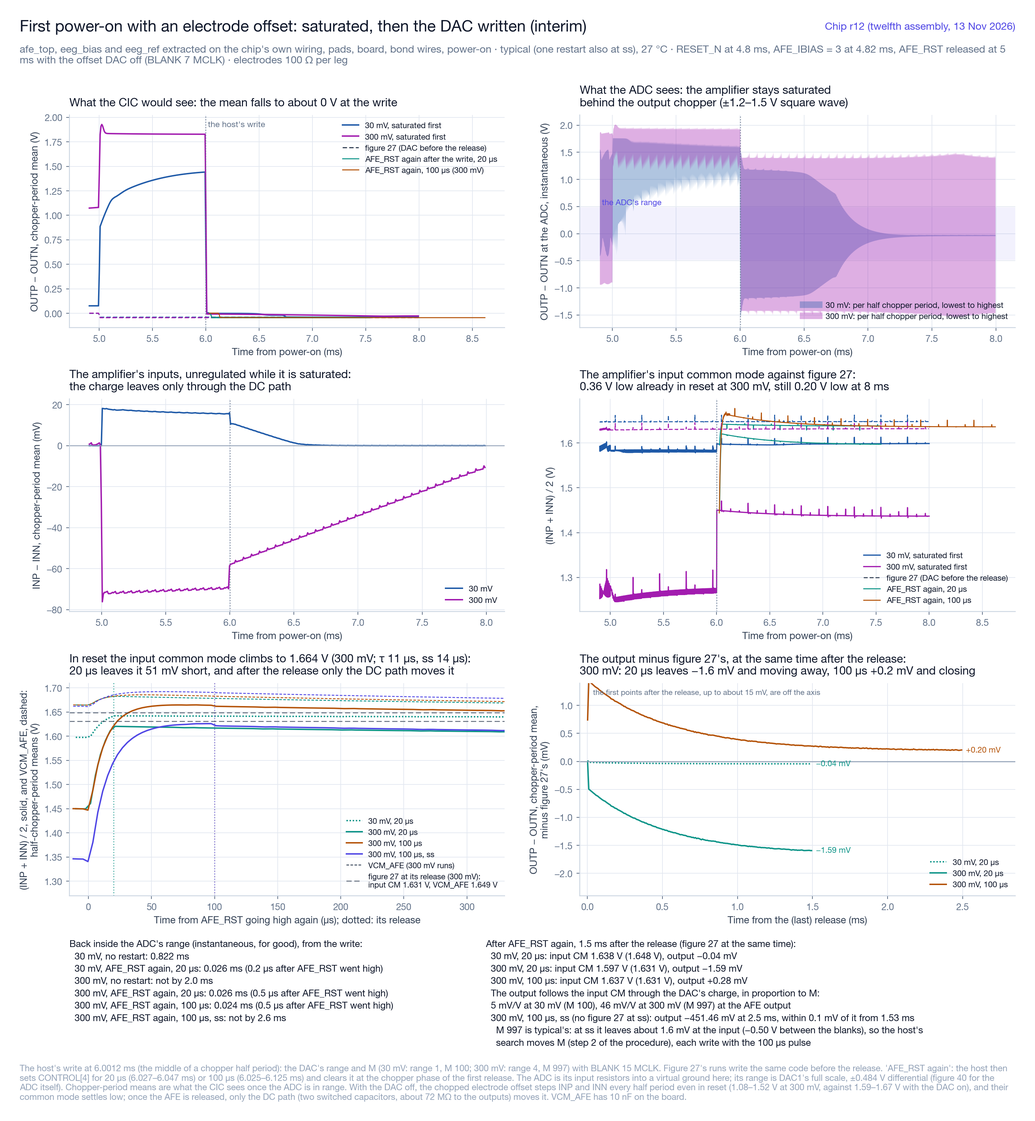
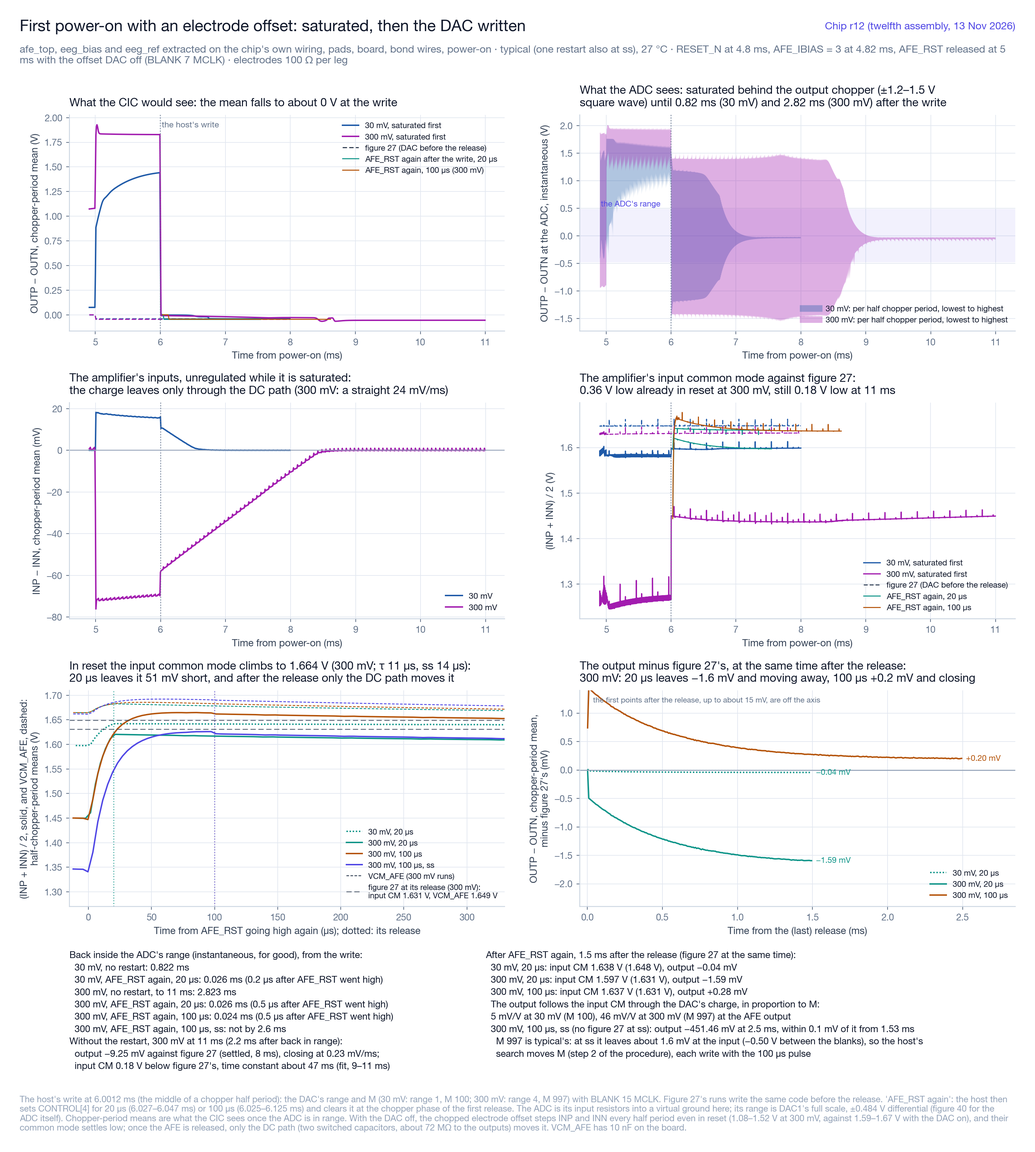
GF180 D7（11/17）：図 39（電極オフセットで飽和した最初の電源投入）を仕上げた。300 mV をパルスなしで 11 ms まで回したラン（11/17 の 2 時 30 分に終わった。8 ms までは 8 ms のランと 0.65 µV 以内で同じ）では、書いてから 2.82 ms（電源投入から 8.82 ms）で ADC の範囲に戻る。飽和した出力が DC 経路に一定の電流を流すので、INP − INN は 24 mV/ms の直線で戻る。範囲に入ったあとも入力のコモンモードは図 27 より 0.18 V 低いまま（9〜11 ms の当てはめで時定数約 47 ms）で、出力は 1

diff --git a/first_tapeout_eeg/gf180/tapeout/viz/saturation_fig.py b/first_tapeout_eeg/gf180/tapeout/viz/saturation_fig.py
@@ -3,7 +3,8 @@
 (gf180_electrode_dc_20261022.md, "使い方"): AFE_RST released at 5 ms with the offset DAC off, so the AFE saturates; the
 host writes the DAC's range and M with BLANK 15 at 6.0 ms (afe_saturation.py). Against figure 27's runs (the DAC
 written before the release), and with the host re-asserting AFE_RST for 20 us or 100 us after the write
-(afe_saturation.py --rst-pulse), where those runs exist; the 100 us restart also at ss.
+(afe_saturation.py --rst-pulse), where those runs exist; the 100 us restart also at ss; 300 mV without the restart
+to 11 ms (afe_saturation.py --tstop 11e-3 --tag _sat6ms_to11ms_chip_r12), where the AFE comes back by itself.
 
 Usage: gf180/tools/venv310/bin/python gf180/tapeout/viz/saturation_fig.py
 """
@@ -125,7 +126,7 @@ def main():
     def R(vin, kind, corner="typical"):
         return runs.get((vin, kind, corner), (None, None))
 
-    fig = V.figure(12.8, 14.0, "First power-on with an electrode offset: saturated, then the DAC written" +
+    fig = V.figure(12.8, 14.4, "First power-on with an electrode offset: saturated, then the DAC written" +
                    (" (interim)" if interim else ""),
                    "afe_top, eeg_bias and eeg_ref extracted on the chip's own wiring, pads, board, bond wires, power-on · "
                    "typical (one restart also at ss), 27 °C · RESET_N at 4.8 ms, AFE_IBIAS = 3 at 4.82 ms, AFE_RST released "
@@ -140,7 +141,7 @@ def main():
                         "(1.08–1.52 V at 300 mV, against 1.59–1.67 V with the DAC on), and their common mode settles low; "
                         "once the AFE is released, only the DC path (two switched capacitors, about 72 MΩ to the outputs) "
                         "moves it. VCM_AFE has 10 nF on the board.")
-    gs = fig.add_gridspec(4, 2, height_ratios=[1, 1, 1, 0.5])
+    gs = fig.add_gridspec(4, 2, height_ratios=[1, 1, 1, 0.6])
 
     # (a) chopper-period means
     ax = fig.add_subplot(gs[0, 0])
@@ -170,33 +171,41 @@ def main():
     ax = fig.add_subplot(gs[0, 1])
     ax.axhspan(-ADC_FS, ADC_FS, color=ACCENT, alpha=0.07, lw=0)
     ax.text(4.92, ADC_FS * 1.05, "the ADC's range", fontsize=7.4, color=ACCENT, va="bottom")
+    back = []
     for vin, mag, col in CASES:
         v, m = R(vin, "long") if (vin, "long", "typical") in have else R(vin, "sat")
         tc, lo, hi = envelope(v, 4.9e-3, v["t"][-1])
         ax.fill_between(tc * 1e3, lo, hi, color=col, alpha=0.35, lw=0)
         ax.plot([], [], color=col, lw=6, alpha=0.35, label=f"{vin} mV: per half chopper period, lowest to highest")
+        tb = back_in_range(v, m["t_dac"])
+        back.append(f"{tb * 1e3:.2f} ms ({vin} mV)" if tb is not None else
+                    f"past {(v['t'][-1] - m['t_dac']) * 1e3:.1f} ms ({vin} mV)")
     ax.axvline(6.0012, color=MUTED, lw=0.8, ls=(0, (1, 2)))
     ax.set_xlabel("Time from power-on (ms)")
     ax.set_ylabel("OUTP − OUTN at the ADC, instantaneous (V)")
     ax.legend(loc="lower right", fontsize=7.4)
-    ax.set_title("What the ADC sees: the amplifier stays saturated\nbehind the output chopper (±1.2–1.5 V square wave)",
-                 loc="left")
+    ax.set_title("What the ADC sees: saturated behind the output chopper (±1.2–1.5 V\nsquare wave) until "
+                 + " and ".join(back) + " after the write", loc="left")
 
     # (c) the amplifier's input nodes
     ax = fig.add_subplot(gs[1, 0])
+    ramp = None
     for vin, mag, col in CASES:
         v, m = R(vin, "long") if (vin, "long", "typical") in have else R(vin, "sat")
         d = v["inp"] - v["inn"]
         tc, mm = chop_means(dict(t=v["t"], qo=np.concatenate([[0.0], np.cumsum(0.5 * (d[1:] + d[:-1]) * np.diff(v["t"]))])),
                             4.9e-3, v["t"][-1])
         ax.plot(tc * 1e3, mm * 1e3, color=col, lw=1.3, label=f"{vin} mV")
+        k = (tc > m["t_dac"] + 0.2e-3) & (np.abs(mm) > 5e-3)      # while the saturated output drives the DC path
+        if vin == 300 and k.sum() > 8:
+            ramp = np.polyfit(tc[k], mm[k], 1)[0]
     ax.axvline(6.0012, color=MUTED, lw=0.8, ls=(0, (1, 2)))
     ax.axhline(0, color=LIGHT, lw=0.8)
     ax.set_xlabel("Time from power-on (ms)")
     ax.set_ylabel("INP − INN, chopper-period mean (mV)")
     ax.legend(loc="lower right", fontsize=7.6)
-    ax.set_title("The amplifier's inputs, unregulated while it is saturated:\nthe charge leaves only through the DC path",
-                 loc="left")
+    ax.set_title("The amplifier's inputs, unregulated while it is saturated:\nthe charge leaves only through the DC path" +
+                 (f" (300 mV: a straight {ramp:.0f} mV/ms)" if ramp else ""), loc="left")
 
     # (d) the input common mode from power-on
     ax = fig.add_subplot(gs[1, 1])
@@ -213,8 +222,8 @@ def main():
             ax.plot(vr["t"][ar][::20] * 1e3, cmr[ar][::20], color=col, lw=0.9, ls=(0, (4, 2)))
             ref = cmr[vr["t"] > vr["t"][-1] - 0.1e-3].mean()
             sat = cm[(v["t"] > 5.5e-3) & (v["t"] < m["t_dac"])].mean()
-            end = cm[(v["t"] > 7.9e-3) & (v["t"] < 8.0e-3)].mean()
-            drop[vin] = (ref - sat, ref - end)
+            end = cm[v["t"] > v["t"][-1] - 0.1e-3].mean()                # the run's last 0.1 ms
+            drop[vin] = (ref - sat, ref - end, v["t"][-1])
         for kind in RCOL:
             rv, rm = R(vin, kind)
             if rv is not None:
@@ -230,7 +239,8 @@ def main():
     ax.legend(loc="lower right", fontsize=7.4)
     d3 = drop.get(300)
     ax.set_title("The amplifier's input common mode against figure 27:\n" +
-                 (f"{d3[0]:.2f} V low already in reset at 300 mV, still {d3[1]:.2f} V low at 8 ms" if d3 else ""), loc="left")
+                 (f"{d3[0]:.2f} V low already in reset at 300 mV, still {d3[1]:.2f} V low at {d3[2] * 1e3:.0f} ms"
+                  if d3 else ""), loc="left")
 
     # (e) the pulse itself: the input common mode climbs to its reset level
     ax = fig.add_subplot(gs[2, 0])
@@ -327,6 +337,25 @@ def main():
                 extra = f" ({(m['t_dac'] + tb - m['afe_rst_again'][0]) * 1e6:.1f} µs after AFE_RST went high)"
             left.append(f"  {vin} mV, {lab}: " + (f"{tb * 1e3:.3f} ms{extra}" if tb is not None else
                                                     f"not by {(v['t'][-1] - m['t_dac']) * 1e3:.1f} ms"))
+    vl, ml = R(300, "long")
+    vr3, mr3 = R(300, "ref")
+    tbl = back_in_range(vl, ml["t_dac"]) if vl is not None else None
+    if tbl is not None and vr3 is not None:                    # where the run without the restart ends up
+        te = vl["t"][-1]
+        tcl, mml = chop_means(vl, ml["t_reset"] + TCH / 4, te)
+        tcr, mmr = chop_means(vr3, mr3["t_reset"] + TCH / 4, vr3["t"][-1])
+        o_end, o_1 = mml[-8:].mean(), mml[(tcl > te - 1e-3 - 8 * TCH) & (tcl <= te - 1e-3)].mean()
+        cml = 0.5 * (vl["inp"] + vl["inn"])
+        x = te - 2e-3 + 0.125e-3 * np.arange(17)
+        h = np.array([wmean(vl["t"], cml, a - 8 * TCH, a) for a in x])
+        cref = wmean(vr3["t"], 0.5 * (vr3["inp"] + vr3["inn"]), vr3["t"][-1] - 8 * TCH, vr3["t"][-1])
+        tau = -1 / np.polyfit(x, np.log(cref - h), 1)[0]
+        left.append(f"Without the restart, 300 mV at {te * 1e3:.0f} ms ({(te - ml['t_dac'] - tbl) * 1e3:.1f} ms after "
+                    "back in range):")
+        left.append(f"  output {(o_end - mmr[-8:].mean()) * 1e3:+.2f} mV against figure 27 (settled, "
+                    f"{vr3['t'][-1] * 1e3:.0f} ms), closing at {(o_end - o_1) * 1e3:.2f} mV/ms;".replace("-", "−"))
+        left.append(f"  input CM {cref - h[-1]:.2f} V below figure 27's, time constant about {tau * 1e3:.0f} ms "
+                    f"(fit, {(te - 2e-3) * 1e3:.0f}–{te * 1e3:.0f} ms)")
     right = ["After AFE_RST again, 1.5 ms after the release (figure 27 at the same time):"]
     gain = {}
     for vin, kind, c, col, ls, lab in RESTARTS:

diff --git a/first_tapeout_eeg/documentation/gf180_tapeout_tracker.md b/first_tapeout_eeg/documentation/gf180_tapeout_tracker.md
@@ -103,7 +103,7 @@
 | D4 | L3：AFE＋ADC＋DAC セル＋量子化器の短窓トランジスタ E2E。10/22：`gf180/tapeout/sim/e2e/e2e_deck.py`（AFE とそのクロックドライバ、ADC ブロック、バイアス生成、基準電圧のフィルタ。typical）で 70 µs を回した。16 kHz・フルスケールの正弦波で、AFE の出力（チョッパ周期の平均）の利得 268.9（周期平均の sinc を除くと約 276）、ADC まで含めた全体 282、量子化の残差 0.031（DAC の段の単位、ADC 単体と同じ）、AVDD 27.2 mA。窓が 16 kHz の 0.8 周期しかないので、利得の精度は数 %。AFE_RST を解除した瞬間の入力が Cin に残る起動時の現象を見つけた（AFE の文書）。1 本 45〜75 分。10/24：寄生込みの E2E（`gf180/tapeout/pex/pex_e2e.py`、`gf180_pex_20261023.md` の「寄生込みの E2E」、図 `documentation/figures/gf180/r9_20261029/e2e_pex/gf180_e2e_pex_r9_*.png`）。AFE と ADC を最終のチップ（B7、B4 の直し込み）の抽出に差し替え、Ch-A を横切る OUTP／OUTN のチップの配線（74／70 fF、片側 35.6 Ω）も足して、回路図と比べた。AFE の利得 291.4（回路図 291.5、配線込み 290.9）、全体 301.2〜301.9、AVDD 27.2 mA、O2 −33〜+34 mV で同等。量子化の残差は寄生込みで約 2 倍（0.017 → 0.032、帯域の外）。リセットの解除のあとの相 A／B の不釣り合い（寄生込みで 19 mV、時定数 143 µs で抜ける）で、ADC の入力の瞬時値は最大 297 mV（フルスケール 300 mV の内側）。仕様を外れるものはない。10/25：4 回目のチップ（電極の DC 電流の直しのあと）の抽出で回し直した。AFE の利得 291.3（配線込み 290.8）、全体 301.5〜302.5、量子化の残差 0.028／0.021。相 A／B の不釣り合いは 19 → −2.6 mV（その大きさは入力チョッパのクロックの結合の WP／WN の差で決まっていた）、ADC の入力の瞬時値は ±287 mV で回路図と同じ。10/26：5 回目のチップ（WN の配線抵抗の直しのあと）でも回し直し、ほぼ同じ（相 A／B −2.7 mV、量子化の残差 0.026／0.021、ADC の入力 ±287 mV）。10/26 夜：6 回目のチップ（Magic DRC の直しのあと）でも回し直し、ほぼ同じ（AFE の利得 291.3、相 A／B −2.7 mV、量子化の残差 0.025／0.021、ADC の入力 ±287 mV）。10/30：9 回目のチップ（ADC は C1・C2 を 1.25 倍にした 7 回目の抽出、AFE は 6 回目と同じ）で回し直した（`runs/e2e_r7/`。d4 と sch も今の回路図で）：AFE の利得 291.3（配線込み 290.8）、全体 299.8〜300.4、量子化の残差 0.016／0.017（回路図 0.017。寄生込みで増えなくなった）、相 A／B −2.7 mV、ADC の入力 ±287 mV。11/9：10 回目のチップ（量子化器のラッチのグラウンドを AVSS につないだ ADC の抽出）で 4 通りとも回し直し、すべて同じ値（`runs/e2e_r10/`。抽出は基板を AVSS とするので、前からラッチは AVSS につながった形で計算されていた）。11/13：11 回目と 12 回目の抽出でも回した（`runs/e2e_r11/`、`runs/e2e_r12/`）。寄生込みは AFE の利得 291.4、全体 299.8／300.4、残差 0.019／0.019。チップの配線込み（pexchip。OUTP／OUTN が約 20 Ω 長くなった）は 290.6、299.9／299.5、0.018／0.014 で、r10 と同じ大きさ。残り：コーナー | 11/17 | ▶（typical ✅、寄生込み ✅） |
 | D5 | 今回 rev の構成決定レビュー。判断が要るもの：ADC のポリ抵抗のフリッカ（11/12、D7、図 33。PDK の大きさを今の電流でとると、フルスケールで 16.26 bit）。11/12 に直す案を調べた（`gf180_realistic_eval_20261028.md` の「RIN と DAC1 を ppolyf_u に替える案」、図 `plan_20261112`、設計はまだ変えていない）：1 単位（300 kΩ）を幅 0.8 µm の ppolyf_u 2 本の直列にすると、雑音 0.069 倍で、フルスケールでも 16.57 bit。抵抗の間を 0.4 µm にし、OTA1 と第 2 段を東へ 28.9 µm ずらせば ADC に収まる（外形は同じ）。角は今と同じ ±20 %、温度による変化は約 1/10。DAC1 は偶成分が要求の 1/90 以下のまま、出力の電位差への感度が 1.59 倍（ループの HD3 約 −129 dBc）、BRK の時間は同じ。R21 も替えるとよい。替えるなら ADC のレイアウト、DRC／LVS、precheck、PEX、DAC1 とループの確認、通し（約 54 時間）をやり直す（1 週間ほど）。替えないなら、フルスケールの 16.26 bit を予測として明記し、チップで測る。勧めは替えるほう（ENOB はフルスケールに近い正弦波で測るため）。**11/12 にユーザーが替えると決めた**（RIN と DAC1、勧めのとおり R21 も ppolyf_u に。11 回目のチップで作業する。走っている 10 回目の通しは r10 の抽出だけを読むので、止めずに進める）。11/12〜13：11 回目のチップで替えた（E4）。作ったままの抵抗でフリッカを計算し直し、フルスケールで 0.29 nVrms、16.57 bit（入力が小さいときと同じ。`runs/adc_flicker_r11`）。11/13：外から指摘のあった、敏感な網の下を通るクロックとデータの線を、ユーザーの判断で 12 回目で直した（E3、E4）。AFE の通路の覆いで電極の DC 電流が ±1.56 → ±1.71 nA になるが、ユーザーの判断で覆いは残した。**発注の候補は r12**（E8） | 11/18 | ▶ |
 | D6 | L4：重要ブロックの PEX 確認（チョッパの寄生結合、AFE 入力節点、積分器・DAC）。10/23：magic で寄生容量を抽出し（ネット名は KLayout の LVS の結果で回路図に対応づけ、MIM の基板容量は下の板へ補正）、入力の信号経路の配線抵抗は KLayout の R 抽出で求めた。AFE、ADC のループ、DAC1、OTA1 のチョッパを、回路図・抽出した素子だけ・寄生込みの 3 つで比べた（`gf180/tapeout/pex/`、`documentation/gf180_pex_20261023.md`）。寄生容量だけなら差は小さい（AFE の雑音 4.64 → 4.70 nVrms、利得 −0.2 %、HD3 −116 dBc、ADC のループの利得・CM・電流、積分器の整定は同等）。**仕様を外れるもの 4 つ**：① 入力の信号経路の配線抵抗が片側 76／119 Ω（コアの入力対のゲート配線 72／115、Cin の下の板の網 4.0、チョッパの EP／EN 0.35）で、AFE の雑音 19.1 nVrms、約 14.8 bit。② DAC1 の偶成分 0.47〜0.69 fC（要求 0.008 fC）で SNDR 約 70 dB。③ DC 経路のスイッチの CIB2 の結合の非対称で AFE の出力に 39 mV p-p のリップル。④ 量子化器の入力の結合の非対称で判定が平均 +2.4 LSB ずれる。原因と直し方（目標値つき）は文書の「直し方」。直したあと同じ流れで確かめる。10/24：4 件をレイアウトで直し（E3、E4）、チップを組み直して抽出と比較を回し直した（文書の「直したあとの確認」）。4 件とも仕様の内側に戻った：配線抵抗は片側 0.634／0.676 Ω（チップで測定。Cin の下の Metal3 の面は Tesselation）、DAC1 の偶成分 −0.0014 fC（123 dB）、リップル 3.62 mV p-p、量子化器の入力の結合はそろい、ループの残差 0.027。AFE の雑音は寄生込みで 4.81 nVrms、配線抵抗込みで 5.05 nVrms、総残差 6.05〜6.07 nVrms（16.45〜16.46 bit）で、16.50 bit に 0.04〜0.05 bit 足りない（片側 0.35 Ω まで下げるには AFE の配置の変更が要り、今回 rev はこの形）。抽出の補正を直した：magic が MIM の上の板に付ける、下の導体（Cin の下の Metal3 の面など）への容量を下の板へ移す（`pex.py` の `mim_shield`。AFE で WP–INP の見かけの 21.3 pF を消した）。**新しく 1 件が仕様を外れた**（直し方 1、2 の副作用）：INP と増幅器の出力 ONI／OPI の結合（P 側だけ 617／526 fF。コアの上端で INP を Cin のバスへつなぐ Metal5 の下を ONI／OPI の Metal4 が通る）で、フルスケールの HD2 −70 dBc（仕様 −111 dBc 以下）、利得 −2 % 前後。抽出からこの結合だけを除くと HD2 −114 dBc に戻る。E3 で直した（幹線を移して遮蔽、出力部の P 側を N 側の鏡映に。4 つの結合は 9 fF 以下、HD2〜HD5 −113.8／−117.2／−120.9／−137.7 dBc、利得は回路図に戻った）。リップルは 4.00 mV p-p（目標の境、クロックの線と出力の結合の P／N の差。帯域の外なので受け入れ）。チップを組み直した（E7）。2 回目までの歪みの確認は 2 kHz だけで、帯域内の低い周波数の HD2（DC 経路が 1 本で −87 dBc）は B7 の確認で見つかり、DC 経路を対称にして直した（0cb0fff4）。B7 と B4 の直しを入れた最終のチップ（3 回目、10/24）で確かめ直した：帯域内のフルスケールの HD2〜HD5 −132.7／−120.4／−160.9／−144.5 dBc、リップル 2.02 mV p-p、AFE の雑音 4.81 nVrms（配線抵抗込み 5.05）、配線抵抗は片側 0.634／0.676 Ω で変わらず。チップは DRC 違反なし、LVS 一致、穴埋めのあとの全 DRC も違反なし、precheck 通過。**10/25：信号がなくても電極に流れる DC 電流を調べて直した**（文書の「電極に流れる DC 電流（10/25）」）。3 回目の抽出の I_ELP −40.0／I_ELN +33.3 nA（`viz_data.py zin`）のうち、同相の −3.4 nA ずつは ngspice の GMIN による見かけ（抽出の入力 TG が PMOS M=1024・NMOS M=512 の 1 素子ずつで、接合ごとの GMIN が打ち消さない）で、実際は差動 ±36.6 nA。入力チョッパのゲートのクロックの結合が WP と WN で違い（チョッパの中のストラップの並びで WN だけが CIA／NCIA のピンの隣、ゲートの折り返しが WN の面の下、上端の WP の板、OFPH の西の線が WN の面の下）、交換器が電荷を一方の電極から他方へ運んでいた。電極の要求を 1 本あたり 1 nA 以下（1 MΩ で 1 mV）とし、1 MΩ で片側 37 mV（16.5 bit の前提の電極オフセット数 mV を外れる）なので不適合と判断して、E3 のレイアウトで直した：差動 ±1.65 nA（22 分の 1、ポンプに効く結合の差 −90.6 → +0.6 fF）、チップの配線を足して ±1.35 nA。残りはコアの INP／INN の寄生の非対称による（抽出で INP／INN を対称にすると差動 +0.5 nA）。今回 rev はこの値で受け入れる（1 MΩ で片側 1.65 mV、範囲 1 の内側）。雑音 4.811 nVrms、利得 297.89 は変わらない。副作用：チョッパの下の WN の面からゲートのレーンの通路を外したため、WN の W の配線抵抗が 0.339 → 0.570 Ω（通路を渡るのが Cin_N のバス 5 µm だけ）。配線抵抗込みの雑音 5.048 → 5.086 nVrms、総残差 6.05 → 6.08 nVrms（16.46 → 16.45 bit）。直すなら通路の上に WN の Metal5 だけを戻す（`gf180_pex_20261023.md`）。10/25 午後：可視化の図（`gf180_viz_20261024.md`）と、配線抵抗・歪み・寄生込みの E2E を 4 回目のチップで測り直した：帯域内の静的な HD2〜HD5 −165.8／−120.3／−148.9／−145.5 dBc、2 kHz −134.1／−118.2／−143.9／−141.6 dBc（仕様の内側）。10/25 夜：通路の上に WN の Metal5 を戻して直した（5 回目のチップ、E3）：WN の W 0.354 Ω、配線抵抗は両側 1.32 Ω（1.47 nVrms）、配線抵抗込みの雑音 5.049 nVrms、総残差 6.05〜6.07 nVrms（16.45〜16.46 bit、10/24 と同じ）。ポンプに効く結合の差 +0.61 → +0.80 fF、電極の DC 電流 ±1.56 nA、利得 297.89、リップル 2.37 mV p-p。10/26 朝：歪み、寄生込みの E2E、`viz_data.py` の AFE の組も 5 回目の抽出で回し直した（4 回目とほぼ同じ）：帯域内の静的な HD2〜HD5 −167.2／−120.3／−149.0／−145.5 dBc、2 kHz −134.2／−118.1／−143.0／−141.5 dBc、E2E の AFE の利得 291.3、相 A／B −2.7 mV、ADC の入力 ±287 mV。可視化の図 10、16〜24 も描き直した。10/26（6 回目、Magic DRC の直し：抵抗のコンタクトと MIM の Via4）：AFE と DAC1 を抽出し直して確かめた。雑音 4.811 nVrms（配線抵抗込み 5.050）、利得 297.89、リップル 2.37 mV p-p、電極の DC 電流 −1.55／+1.57 nA、DAC1 の偶成分 −0.00135／−0.00125 fC で 5 回目と同じ。配線抵抗の W は Cin の Via4 の分で 0.347／0.357 Ω（+3〜4 mΩ、`gf180_pex_20261023.md`）。10/26 夜：歪み（帯域内の静的な HD2〜HD5 −164.0／−120.3／−148.9／−146.0 dBc、2 kHz −133.9／−118.1／−141.4／−141.1 dBc）、寄生込みの E2E、`viz_data.py` の組、ADC のループ（利得 1.0040、残差 0.0318、判定が理想のしきい値と合うフレーム 91.2 %。3 回目の抽出からの差は 80 フレームの窓の揺れの範囲）、DAC1 の偶成分の行動モデル（123.0 dB）も 6 回目の抽出で回し直した。どれも 5 回目（ADC は 3 回目）とほぼ同じ。可視化の図は版ごとのフォルダ（`documentation/figures/gf180/r6_20261026/`）に全部描き直し、KLayout で描いたレイアウトの図 9 枚を足した。10/30：9 回目のチップ（今の版）の図を `documentation/figures/gf180/r9_20261029/` に全部描き直した。ADC は 7 回目の抽出（ループの利得 0.9974、残差 0.0202、判定 95.0 %、DAC1 の偶成分の行動モデル 123.0 dB）、AFE は 6 回目と同じ抽出、チップの配線を通す結果（雑音、入力経路の配線抵抗、起動、OUTP／OUTN の窓）は 9 回目で取り直した | 10/30 | ✅ |
-| D7 | 実際に近い条件での立ち上がりと性能（10/27〜、`gf180_realistic_eval_20261028.md`）。電源投入から（電源のランプ、`uic`）、RTL のリセットの順序、パッドリング、基板（仮定）とボンディングワイヤ、チップの配線（`pex_chipnets.py`：パッドセル、AVDD／AVSS の網とデカップリング、ブロックの間の配線と結合）、抽出した afe_top／eeg_bias／eeg_ref、モンテカルロ（工程と素子ごと。MIM と抵抗の素子ごとは仮の係数）、AVDD ±5 %（`gf180/tapeout/pex/afe_startup.py`）。雑音はチップの実際の動作点で測る（`afe_chip_noise.py`）。ADC を含めた電源投入からの通しは `e2e_startup.py`。10/28：雑音は上の予算の表のとおり（code 3 で 16.40 bit）。電極 0 V の立ち上がり（code 2、typical・±5 %・モンテカルロ 10）は、解除の 1 周期で −0.08〜−0.40 mV 振れ、7 µs 以内に −0.073 ± 0.002 mV（電極換算 −0.24 µV）に落ち着く。バイアスは電源投入から 0.91〜0.95 ms で 1 % 以内。通しのデッキは電源投入から AFE の解除後 50 µs まで回り、全体の利得 298.3。10/28〜29：AFE_IBIAS code 3 の書き込みを入れたモンテカルロ 30 と ±5 %、電極の DC オフセット、正弦波、VCM の容量 100 nF／1 µF、ADC 側を実際の条件で回した（ADC の C1・C2 を 1.25 倍にした）。10/31：9 回目のチップの配線で起動を回し直した。モンテカルロ 30 と ±5 % はすべて最後まで回り、解除後の出力は −0.075 ± 0.006 mV、0.1 mV まで 12 µs 以内、バイアスは 0.89〜0.97 ms で 1 % 以内で、6 回目と実質同じ。電極の DC オフセットは 300 mV まで打ち消せ、段の大きさは抽出のビットの重みで説明できる（どの範囲でも単調、残差の最大は範囲 1 で 153 µV、範囲 2 以上で 166 µV）。11/2：電源投入から CIC の出力までの通し（r6、r7、10 ms）が最後まで回った。有効な 3 サンプルはどれも RTL とビット一致し、電極から DATA までの利得は 306.6（r6 と r7 のサンプルの差は 7 LSB 以内）。11/8〜9：デジタル側（9 個の bi_24t、ブロックの電源電流、チップの DVDD／DVSS）を、9 回目の通しのチャンク 14 に入れて比べた（`digital_noise.py`）。リングの揺れは 18 → 59 mV p-p、ADC のデジタルの電源は 417 mV p-p。結合で AFE の出力にできる一定のずれは電極換算 0.21 nV で、DATA の約 1 LSB、計算の差（0.13 nV）と同じ大きさ。ADC の符号は 48 フレームとも一致した。この結合は MCLK に同期するので、一定のずれにしかならない。SPI の読み出しでも符号は一致し、周期ごとの差は 0.2 nV rms 以下。11/9：RAW の出力を動かす組（b3）も最後まで回った。AFE の入力の揺れは b1 の約 2 倍（同相 15.2 mV p-p、差動 16.7 µV p-p）になるが、出力の一定のずれは −0.11 nV、周期ごとの残りは 0.11 nV rms で、符号は 48 フレームとも一致した（図 31、`documentation/figures/gf180/r10_20261109/viz/`）。11/11：9 回目のチップの配線での通しも最後まで回った。有効な 3 サンプルはどれも RTL とビット一致し、7 回目より 0.064 % 大きい。差はすべて AFE の利得の差で、AFE の AVSS の持ち上がりが小さくなって AFE の電流が約 1 % 増えたため。ADC 側は 7 回目と同じだった。11/11：図 31 のデッキの ADC を 10 回目の抽出に替えて、5 本を回し直した（b2 は区切り点の近さで一度止まり、MISO を 0.125 ns ずらして回し直した）。5 本とも 48 フレームの ADC の符号が 7 回目の抽出のときと同じだった。結合の一定のずれは電極換算 0.30 nV で、計算の差（0.27 nV）と同じ大きさ。SPI の読み出しと RAW の出力でも、周期ごとの残りは 0.3 nV rms 以下。図 31 を描き直した。11/13：10 回目の通しも最後まで回った。有効な 3 サンプルはどれも RTL とビット一致し、9 回目との差は +4、−1、−3 LSB（1 本の中の続くサンプルどうしの違いと同じ大きさ）、電源と基準は 9 回目と同じ。11 回目の通しは、12 回目に替えたのでチャンク 4 で止めた。11/13：11 回目と 12 回目のチップの配線で雑音を回し直し、9 回目と 0.001 nVrms 以内で同じ（AFE_IBIAS 3 で typical 5.327 nVrms、モンテカルロ 30 の最悪 5.498 nVrms）。11/15：12 回目の起動のバッチは 50 本のうち 32 本が済み（モンテカルロ 18 本）、9 回目と同じ値（バイアス 0.91〜0.95 ms、解除から 0.1 mV まで 9 µs 以内、出力 −0.099 ± 0.006 mV、電極のオフセットの残差は出力で 0.06 mV 以内で同じ）。電源投入をプロセスの角 4 つ × AVDD ±5 % と電源の立ち上がり 10 µs〜100 ms で回し、20 本とも起動した（起動回路は AVDD 0.61〜1.03 V で切れる。図 37、`powerup_checks.py`）。基板への要求に、AVDD と外の基準を DVDD より先に上げないこと（アナログのパッドの ESD ダイオードが DVDD のリングへ向く）と、解除を電源が上がりきってから数えることを足した。11/16：12 回目の起動のバッチ 50 本と通し（71 時間）が終わった。通しの有効な 3 サンプルはどれも RTL とビット一致し、10 回目より −0.175 %（ADC の基準電圧 +0.057 %、AFE の利得 −0.116 %）。角での AFE の解除（図 38）：どの角でも動き出すが、BOOST_TRIM がリセット値 4/4 のままだと、フルスケールの HD3 が ss −97.6、sf −96.8、fs −106.1 dBc で要求（−111 dBc）に届かない。AVDD −5 % ではどのトリムでも届かない。AVDD を上げるとよくなり、3.40 V と角ごとのトリムで 5 つの角が届く。チップの窓は約 3.394〜3.456 V（図 41）。ADC は ADC の電源 3.39 V でも 3.245 V と同じに動く。ただし、typical を地図の 2/2 にすると、AVDD を上げた分だけ AFE の雑音が増える（3.45 V で 5.73 nVrms、予算で 16.47 bit。BTRIM_P を 4 以上にすれば平ら。図 42）。BTRIM_P 4 でも HD3 は届く：チップの HD3 は、typical 4/2 が 3.40 V で −117.0 dBc（2/2 の −116.8 と同じ）、リセット値の 4/4 が 3.40 V で −115.6、3.45 V で −116.4 dBc（要求に 4.6 dB 以上の余裕）。typical のトリムは 4/2 を勧める（雑音は平らで、予算は 3.45 V でも 16.56 bit。窓の上の端は ff 8/2 の約 3.460 V になる）。電極のオフセットで飽和した最初の電源投入（図 39）：書いても増幅器は出力チョッパの後ろで飽和したまま残るので、ホストは書くたびに AFE_RST を 100 µs 上げる（typical と ss で確かめた。ss では typical の M では残差が大きく、M の探索がもう 1 回要る）。ADC は過負荷から自分で戻る（最大 0.22 ms、図 40）。デジタル側（図 31）を 12 回目の通しのチャンク 14 で回し直した（4 本、23 時 44 分に済んだ）：48 フレームの ADC の符号はどの組でも一致し、結合の一定のずれは電極換算 0.02 nV（計算の差 0.25 nV より小さい）、SPI の読み出しは +0.42 nV、RAW の出力は +0.64 nV（周期ごとの残り 0.27 nV rms 以下）で、10 回目と同じ大きさ。リングと電源の揺れも 10 回目と同じ。図は 12 回目の 42 枚がそろった（39 は途中の版）。残り：11/18 の構成決定（AVDD とトリム）、実際のレギュレータの PSRR | 11/18 | ▶ |
+| D7 | 実際に近い条件での立ち上がりと性能（10/27〜、`gf180_realistic_eval_20261028.md`）。電源投入から（電源のランプ、`uic`）、RTL のリセットの順序、パッドリング、基板（仮定）とボンディングワイヤ、チップの配線（`pex_chipnets.py`：パッドセル、AVDD／AVSS の網とデカップリング、ブロックの間の配線と結合）、抽出した afe_top／eeg_bias／eeg_ref、モンテカルロ（工程と素子ごと。MIM と抵抗の素子ごとは仮の係数）、AVDD ±5 %（`gf180/tapeout/pex/afe_startup.py`）。雑音はチップの実際の動作点で測る（`afe_chip_noise.py`）。ADC を含めた電源投入からの通しは `e2e_startup.py`。10/28：雑音は上の予算の表のとおり（code 3 で 16.40 bit）。電極 0 V の立ち上がり（code 2、typical・±5 %・モンテカルロ 10）は、解除の 1 周期で −0.08〜−0.40 mV 振れ、7 µs 以内に −0.073 ± 0.002 mV（電極換算 −0.24 µV）に落ち着く。バイアスは電源投入から 0.91〜0.95 ms で 1 % 以内。通しのデッキは電源投入から AFE の解除後 50 µs まで回り、全体の利得 298.3。10/28〜29：AFE_IBIAS code 3 の書き込みを入れたモンテカルロ 30 と ±5 %、電極の DC オフセット、正弦波、VCM の容量 100 nF／1 µF、ADC 側を実際の条件で回した（ADC の C1・C2 を 1.25 倍にした）。10/31：9 回目のチップの配線で起動を回し直した。モンテカルロ 30 と ±5 % はすべて最後まで回り、解除後の出力は −0.075 ± 0.006 mV、0.1 mV まで 12 µs 以内、バイアスは 0.89〜0.97 ms で 1 % 以内で、6 回目と実質同じ。電極の DC オフセットは 300 mV まで打ち消せ、段の大きさは抽出のビットの重みで説明できる（どの範囲でも単調、残差の最大は範囲 1 で 153 µV、範囲 2 以上で 166 µV）。11/2：電源投入から CIC の出力までの通し（r6、r7、10 ms）が最後まで回った。有効な 3 サンプルはどれも RTL とビット一致し、電極から DATA までの利得は 306.6（r6 と r7 のサンプルの差は 7 LSB 以内）。11/8〜9：デジタル側（9 個の bi_24t、ブロックの電源電流、チップの DVDD／DVSS）を、9 回目の通しのチャンク 14 に入れて比べた（`digital_noise.py`）。リングの揺れは 18 → 59 mV p-p、ADC のデジタルの電源は 417 mV p-p。結合で AFE の出力にできる一定のずれは電極換算 0.21 nV で、DATA の約 1 LSB、計算の差（0.13 nV）と同じ大きさ。ADC の符号は 48 フレームとも一致した。この結合は MCLK に同期するので、一定のずれにしかならない。SPI の読み出しでも符号は一致し、周期ごとの差は 0.2 nV rms 以下。11/9：RAW の出力を動かす組（b3）も最後まで回った。AFE の入力の揺れは b1 の約 2 倍（同相 15.2 mV p-p、差動 16.7 µV p-p）になるが、出力の一定のずれは −0.11 nV、周期ごとの残りは 0.11 nV rms で、符号は 48 フレームとも一致した（図 31、`documentation/figures/gf180/r10_20261109/viz/`）。11/11：9 回目のチップの配線での通しも最後まで回った。有効な 3 サンプルはどれも RTL とビット一致し、7 回目より 0.064 % 大きい。差はすべて AFE の利得の差で、AFE の AVSS の持ち上がりが小さくなって AFE の電流が約 1 % 増えたため。ADC 側は 7 回目と同じだった。11/11：図 31 のデッキの ADC を 10 回目の抽出に替えて、5 本を回し直した（b2 は区切り点の近さで一度止まり、MISO を 0.125 ns ずらして回し直した）。5 本とも 48 フレームの ADC の符号が 7 回目の抽出のときと同じだった。結合の一定のずれは電極換算 0.30 nV で、計算の差（0.27 nV）と同じ大きさ。SPI の読み出しと RAW の出力でも、周期ごとの残りは 0.3 nV rms 以下。図 31 を描き直した。11/13：10 回目の通しも最後まで回った。有効な 3 サンプルはどれも RTL とビット一致し、9 回目との差は +4、−1、−3 LSB（1 本の中の続くサンプルどうしの違いと同じ大きさ）、電源と基準は 9 回目と同じ。11 回目の通しは、12 回目に替えたのでチャンク 4 で止めた。11/13：11 回目と 12 回目のチップの配線で雑音を回し直し、9 回目と 0.001 nVrms 以内で同じ（AFE_IBIAS 3 で typical 5.327 nVrms、モンテカルロ 30 の最悪 5.498 nVrms）。11/15：12 回目の起動のバッチは 50 本のうち 32 本が済み（モンテカルロ 18 本）、9 回目と同じ値（バイアス 0.91〜0.95 ms、解除から 0.1 mV まで 9 µs 以内、出力 −0.099 ± 0.006 mV、電極のオフセットの残差は出力で 0.06 mV 以内で同じ）。電源投入をプロセスの角 4 つ × AVDD ±5 % と電源の立ち上がり 10 µs〜100 ms で回し、20 本とも起動した（起動回路は AVDD 0.61〜1.03 V で切れる。図 37、`powerup_checks.py`）。基板への要求に、AVDD と外の基準を DVDD より先に上げないこと（アナログのパッドの ESD ダイオードが DVDD のリングへ向く）と、解除を電源が上がりきってから数えることを足した。11/16：12 回目の起動のバッチ 50 本と通し（71 時間）が終わった。通しの有効な 3 サンプルはどれも RTL とビット一致し、10 回目より −0.175 %（ADC の基準電圧 +0.057 %、AFE の利得 −0.116 %）。角での AFE の解除（図 38）：どの角でも動き出すが、BOOST_TRIM がリセット値 4/4 のままだと、フルスケールの HD3 が ss −97.6、sf −96.8、fs −106.1 dBc で要求（−111 dBc）に届かない。AVDD −5 % ではどのトリムでも届かない。AVDD を上げるとよくなり、3.40 V と角ごとのトリムで 5 つの角が届く。チップの窓は約 3.394〜3.456 V（図 41）。ADC は ADC の電源 3.39 V でも 3.245 V と同じに動く。ただし、typical を地図の 2/2 にすると、AVDD を上げた分だけ AFE の雑音が増える（3.45 V で 5.73 nVrms、予算で 16.47 bit。BTRIM_P を 4 以上にすれば平ら。図 42）。BTRIM_P 4 でも HD3 は届く：チップの HD3 は、typical 4/2 が 3.40 V で −117.0 dBc（2/2 の −116.8 と同じ）、リセット値の 4/4 が 3.40 V で −115.6、3.45 V で −116.4 dBc（要求に 4.6 dB 以上の余裕）。typical のトリムは 4/2 を勧める（雑音は平らで、予算は 3.45 V でも 16.56 bit。窓の上の端は ff 8/2 の約 3.460 V になる）。電極のオフセットで飽和した最初の電源投入（図 39）：書いても増幅器は出力チョッパの後ろで飽和したまま残るので、ホストは書くたびに AFE_RST を 100 µs 上げる（typical と ss で確かめた。ss では typical の M では残差が大きく、M の探索がもう 1 回要る）。パルスなしでも 300 mV は書いてから 2.82 ms で ADC の範囲に戻るが、11 ms でも出力は図 27 より入力換算約 −31 µV ずれ、入力のコモンモード（0.18 V 低い）と一緒に時定数約 47 ms で抜けていく（11/17、11 ms まで回した。パルスなら 0.5 µs で範囲に入り、2.5 ms 後に +0.7 µV）。ADC は過負荷から自分で戻る（最大 0.22 ms、図 40）。デジタル側（図 31）を 12 回目の通しのチャンク 14 で回し直した（4 本、23 時 44 分に済んだ）：48 フレームの ADC の符号はどの組でも一致し、結合の一定のずれは電極換算 0.02 nV（計算の差 0.25 nV より小さい）、SPI の読み出しは +0.42 nV、RAW の出力は +0.64 nV（周期ごとの残り 0.27 nV rms 以下）で、10 回目と同じ大きさ。リングと電源の揺れも 10 回目と同じ。図は 12 回目の 42 枚がそろった（39 は 11/17 に仕上げた）。残り：11/18 の構成決定（AVDD とトリム）、実際のレギュレータの PSRR | 11/18 | ▶ |
 
 ## E. レイアウトと統合
 

diff --git a/first_tapeout_eeg/documentation/figures/gf180/r12_20261113/README.md b/first_tapeout_eeg/documentation/figures/gf180/r12_20261113/README.md
@@ -13,10 +13,10 @@
   - 最新の precheck（10/20 版。11/13 にも最新と確かめた）を、事務局の指定どおり `--slot 1x0p5 --cob` で回して通った（pre_20261113_r12）。
 - GDS（穴埋めのあと、precheck に出した形）は `gf180/tapeout/chip/gds/chip_top_fill_r12_20261113.gds.gz`（gzip、41,882,152 バイト）。展開した `chip_top_fill.gds` の sha256 は 6b832e0e…。
 - ここの図は、すべてこの版の図として描いた（11/14）。ファイル名と図の右上に版（r12）を書いた。
-  - 31（デジタル側）は、12 回目の通しのチャンク 14 での 4 本（11/16 の 3 時 49 分から）が 23 時 44 分に終わってから描いた。これで 42 枚がそろった（39 は途中の版）。32（電極の入力と DATA の対応）は、12 回目の通しが 11/16 の 12 時 3 分に終わったので描いた。
+  - 31（デジタル側）は、12 回目の通しのチャンク 14 での 4 本（11/16 の 3 時 49 分から）が 23 時 44 分に終わってから描いた。これで 42 枚がそろった。32（電極の入力と DATA の対応）は、12 回目の通しが 11/16 の 12 時 3 分に終わったので描いた。
   - 図 25〜28 は、起動のバッチ（50 本）が 11/16 の 3 時 44 分に終わってから描いた。
   - 図 34（敏感な網とスイッチする網の交差）、図 35（フルスケールの正弦波から出した ENOB、11/14）、図 36（ADC の OTA の非線形と DAC1 のジッタ、11/15）、図 37（電源投入のプロセスの角と電源の立ち上がりの速さ、11/15）は、この版で足した図。
-  - 図 38（角での AFE の解除）、図 39（電極オフセットがある最初の電源投入）、図 40（ADC の過負荷）、図 41（AFE の線形性の窓）は 11/16 に足した図。図 40（8 時 52 分）と図 38（9 時 31 分）は、回していた計算がそろったので描き直した。39 と 41 はまだ途中（回している計算があり、そろったら描き直す）。11 時 7〜9 分に終わった 100 µs のパルスと ±1 % の 2 本を入れて、39 と 41 を描き直した（39 は 4 段にして、パルスの中と図 27 との差を足した）。41 は 12 時 52 分に終わった窓の端の 2 本を入れて仕上げた。図 42（AFE の雑音：AVDD と BOOST_TRIM）も 11/16 に足した図で、typical の BTRIM_P 4 のチップの HD3 の 3 本（21 時 37 分にそろった）を入れて仕上げた。39 は 300 mV の 11 ms までのランを回している。
+  - 図 38（角での AFE の解除）、図 39（電極オフセットがある最初の電源投入）、図 40（ADC の過負荷）、図 41（AFE の線形性の窓）は 11/16 に足した図。図 40（8 時 52 分）と図 38（9 時 31 分）は、回していた計算がそろったので描き直した。39 と 41 はまだ途中（回している計算があり、そろったら描き直す）。11 時 7〜9 分に終わった 100 µs のパルスと ±1 % の 2 本を入れて、39 と 41 を描き直した（39 は 4 段にして、パルスの中と図 27 との差を足した）。41 は 12 時 52 分に終わった窓の端の 2 本を入れて仕上げた。図 42（AFE の雑音：AVDD と BOOST_TRIM）も 11/16 に足した図で、typical の BTRIM_P 4 のチップの HD3 の 3 本（21 時 37 分にそろった）を入れて仕上げた。39 は、300 mV をパルスなしで 11 ms まで回したラン（11/17 の 2 時 30 分に終わった）を入れて仕上げた。
 - **12 回目で変わっていないものは、最後に変わった版の結果を使った**（変わっていないことは XOR かデッキの比べで確かめた）。
   - adc_rdac、OTA、量子化器、eeg_bias、eeg_ref は 11 回目と同じなので、ブロックのモンテカルロ（図 29）とポリ抵抗のフリッカ（図 33）は 11 回目のもの。行動モデル（図 29）も 11 回目のブロックのモンテカルロから回した（`runs/adc_beh_mc_r11/`）。
   - 寄生込みの E2E（図 16〜18）の d4 と sch は、11 回目の実行の写し。回路図のデッキは版によらず、`pex_e2e.deck_text()` が 11 回目のものと 1 文字も違わず、読み込むファイルもその実行より前のまま（`runs/e2e_r12/README.md`）。
@@ -28,7 +28,7 @@
   - ブロックのモンテカルロ（図 29）：OTA1 の利得のばらつきが 0.09 → 0.46 dB に増えた。負荷（RIN、R21）が ppolyf_u になり、OTA1 のバイアス電流を決める eeg_bias の ppolyf_u_1k と別々にばらつくため（6 回目との差が 2 つの抵抗の比と相関 0.999）。最悪の 69.26 dB でも、行動モデルの 68.7 dB より高い。30 ダイの SNDR は 114.8〜153.8 dB。
 - 比べるために前の値を並べた列（回路図、10/23 の抽出、B7 の前の DC 経路など）は、図の中にそう書いてある。
 
-## `viz/`：可視化（42 枚。39 は途中の版）
+## `viz/`：可視化（42 枚）
 
 | 番号 | 図 | 元にしたもの |
 |---|---|---|
@@ -54,7 +54,7 @@
 | 36 | ADC の OTA の非線形と DAC1 のジッタ（フルスケール） | `ota_static.py`（`runs/ota_static_r12/`：抽出した OTA1 と OTA2 を段の負荷で DC スイープ。OTA1 はチョッパの両相、typical、角 4、モンテカルロ 1〜10。OTA2 は typical と角）、`ota_distortion.py`（行動モデルの積分器の出力に当てた入力での誤差、DAC1 のジッタの感度）、`enob_sine.py --ota-nl`（`runs/enob_sine_r12/enob_sine_otanl.json`）→ `ota_fig.py` |
 | 37 | 電源投入：プロセスの角、AVDD ±5 %、電源の立ち上がり 10 µs〜100 ms | `powerup_checks.py`（`afe_startup.py` の power、AFE はリセットのまま、起動回路の SB と G1 も残す。`runs/startup/power_*_su_*_chip_r12/`：角 4 つと typical × 3.135／3.3／3.465 V、立ち上がり 10 µs／10 ms／100 ms と 100 ms の ss・sf）。比べるモンテカルロは図 26 のラン（RESET_N の前の code 2）→ `powerup_fig.py` |
 | 38 | 角での AFE の解除 | `corner_start_fig.py`（`runs/startup/start_*_sine0.943mV2000Hz_*_chip_r12`：`afe_startup.py` の start と `afe_trim_start.py`。角 5、AVDD 3.3／3.135 V、BOOST_TRIM 4/4 と 10/22 の表のトリム、AFE_IBIAS 3、ss 2/2 は 2 も） |
-| 39 | 電極オフセットがある最初の電源投入（途中） | `saturation_fig.py`（`runs/startup/start_c1e-08_v3.3_typical_+{30,300}mV_*_sat6ms*_chip_r12`：`afe_saturation.py`。DAC を切ったまま解除、6.0 ms に書く、AFE_RST の入れ直し 20 µs と 100 µs）。比べるのは図 27 のラン。300 mV の 11 ms までと、ss での 100 µs のパルスを回している |
+| 39 | 電極オフセットがある最初の電源投入 | `saturation_fig.py`（`runs/startup/start_c1e-08_v3.3_typical_+{30,300}mV_*_sat6ms*_chip_r12`：`afe_saturation.py`。DAC を切ったまま解除、6.0 ms に書く、AFE_RST の入れ直し 20 µs と 100 µs）。比べるのは図 27 のラン。300 mV をパルスなしで 11 ms まで（`--tstop 11e-3`、`*_sat6ms_to11ms_chip_r12`）と、ss での 100 µs のパルス（`start_c1e-08_v3.3_ss_+300mV_*_sat6ms_rst100us_chip_r12`）も入れた |
 | 40 | ADC の過負荷 | `overload_fig.py`（`adc_overload.py` の抽出した ADC のループ：±2.5 V と 20 kHz の正弦波、+2.5 V を 150 µs のあと −39 mV の DC。`adc_overload_beh.py` の行動モデル：抽出との比べ、同じ状態からの 2 ms、42 ダイ × 300 状態のスイープ。`runs/adc_overload_r12/`） |
 | 41 | AFE の線形性の窓：AVDD に対するフルスケールの HD3 | `afe_window_fig.py`（`gf180/tapeout/sim/afe/afe_margin_map.py`：`runs/margin_map/hd_window.json`、`calib.json`、`map_fine3.json`）。チップの点は図 38 のランと、AVDD 3.40 V の 5 本（`runs/startup/start_c1e-08_v3.4_*_chip_r12`）、3.40 V ±1 % の 2 本（ss 3.366 V、ff 3.434 V）と窓の端の 2 本（ff 3.465 V、ss 3.45 V、`run_edges.py`）。入力対の余裕は `calib.py` の台（3.4845 V の点も） |
 | 42 | AFE の雑音：AVDD と BOOST_TRIM | `afe_noise_avdd_fig.py`（`gf180/tapeout/pex/afe_chip_noise.py --avdd --boost --corner`：`runs/chip_noise_r12/chip_A_ib3_*`、凍結した相 A、AFE_IBIAS 3、各角の typical のモデル。PMOS 入力対の余裕は `afe_chip_noise.op_margins`。typical の BTRIM_P 4 のチップの HD3 は `runs/startup/start_c1e-08_v{3.4,3.45}_typical_*_bt4-4_chip_r12` と `start_c1e-08_v3.4_typical_*_bt4-2_chip_r12`（`afe_trim_start.py`）を図 41 と同じ方法で。4/4 の 2 本（11/16 の 21 時 11 分）と 4/2（21 時 37 分）がそろったので仕上げた） |

diff --git a/first_tapeout_eeg/documentation/gf180_viz_20261024.md b/first_tapeout_eeg/documentation/gf180_viz_20261024.md
@@ -1,6 +1,6 @@
 # GF180 EEG チップの可視化（2026-10-24、最終のレイアウト）
 
-**この図はすべて 12 回目のチップ（r12、11/13、8de0a0f0 の上の作業ツリーで作り、設計のファイルは 11/16 に a4e731a5 でコミット。precheck pre_20261113_r12、`chip_top_fill.gds` の sha256 6b832e0e…。発注の候補）のもの。** 置き場所は `documentation/figures/gf180/r12_20261113/`（版ごとのフォルダ、`documentation/figures/README.md`。図ごとの元は同じ場所の `README.md`）。図 39 はまだ途中の版（300 mV で 11 ms まで回すランが終わったら描き直す）。
+**この図はすべて 12 回目のチップ（r12、11/13、8de0a0f0 の上の作業ツリーで作り、設計のファイルは 11/16 に a4e731a5 でコミット。precheck pre_20261113_r12、`chip_top_fill.gds` の sha256 6b832e0e…。発注の候補）のもの。** 置き場所は `documentation/figures/gf180/r12_20261113/`（版ごとのフォルダ、`documentation/figures/README.md`。図ごとの元は同じ場所の `README.md`）。
 
 - 10 回目の図は `r10_20261109/` に残してある（ADC の RIN、DAC1、R21 が ppolyf_u_1k の版で、この文書は 11/16 までそこを指していた）。9 回目の図は `r9_20261029/`、6 回目の図は `r6_20261026/` に残してある。この 2 つは使わない版で、9 回目までは量子化器のラッチのグラウンドがどこにもつながっておらず、6 回目はコアの DVDD もパッドにつながっていない。
 - それより前の図（10/24 の初版は 3 回目の 24fd1411、4 回目の 9b5f495a、5 回目の 20de9559）は git の履歴にある。
@@ -95,6 +95,8 @@ gf180/tools/venv310/bin/python gf180/tapeout/viz/crossings_fig.py plot
   - 42（仕上げ）：typical の BTRIM_P 4 のチップの HD3 の 3 本（4/4 の 3.40 V と 3.45 V、4/2 の 3.40 V。21 時 37 分にそろった）を入れて仕上げた。4/2 は 3.40 V で −117.0 dBc で 2/2（−116.8 dBc）と同じ、4/4 は −115.6／−116.4 dBc。typical のトリムは 4/2 を勧める（11/18 に決める）。
   - 31（デジタル側）：12 回目の通しのチャンク 14 の写しで b1、b1iso、b2、b3 を回し（`digital_noise.py --chain r12`、11/16 の 3 時 49 分〜23 時 44 分）、通しのチャンクそのものを基準にして描いた。48 フレームの ADC の符号はどの組でも一致し、一定のずれは電極換算 0.64 nV 以下、周期ごとの残りは 0.27 nV rms 以下（`gf180_realistic_eval_20261028.md` の「デジタル側」）。
   - 31 がそろったので、この文書の図の参照を 10 回目から 12 回目に切り替えた（下の図とレイアウトの画像、読むときの注意の値、図 32 と 33 の説明。34〜42 の画像も足した）。
+- **11/17**：
+  - 39（仕上げ）：300 mV をパルスなしで 11 ms まで回したラン（2 時 30 分に終わった）を入れた。300 mV は書いてから 2.82 ms で ADC の範囲に入る（30 mV は 0.82 ms）。そのあとも入力のコモンモードは図 27 より 0.18 V 低く（時定数約 47 ms）、出力は 11 ms で図 27 より −9.25 mV。(b) の題に範囲に戻る時刻、(c) に INP − INN の戻り方（24 mV/ms の直線）、(d) に 11 ms でのコモンモードの差、下の数字に 11 ms での出力とコモンモードを足した。
 
 ## 図の決まり
 
@@ -252,7 +254,7 @@ gf180/tools/venv310/bin/python gf180/tapeout/viz/crossings_fig.py plot
 
 ![The AFE's noise against AVDD and BOOST_TRIM](figures/gf180/r12_20261113/viz/gf180_viz_r12_42_afe_noise_avdd.png)
 
-図 34〜42 は 12 回目で足した図。中身は上の「図」の表、元にしたランは `r12_20261113/README.md`、結果の説明は `gf180_realistic_eval_20261028.md`。39 はまだ途中の版。
+図 34〜42 は 12 回目で足した図。中身は上の「図」の表、元にしたランは `r12_20261113/README.md`、結果の説明は `gf180_realistic_eval_20261028.md`。
 
 ## レイアウト（KLayout）
 

diff --git a/first_tapeout_eeg/documentation/gf180_verification_coverage_20261029.md b/first_tapeout_eeg/documentation/gf180_verification_coverage_20261029.md
@@ -89,7 +89,7 @@
 | 成り立つべきこと | 見ている検査 | 状況 | 穴と次の手 |
 |---|---|---|---|
 | 基板の条件（電源、基準、発振器） | 管理表 F2 | ⚠ | ユーザー |
-| ファームウェアの設定（AFE_IBIAS 3、VCM の待ち時間、CPF_TRIM、オフセット DAC） | 管理表 F4、`gf180_realistic_eval_20261028.md` | ▶ | 実機で確かめる |
+| ファームウェアの設定（AFE_IBIAS 3、VCM の待ち時間、CPF_TRIM、オフセット DAC、DAC を書くたびの AFE_RST 100 µs） | 管理表 F4、`gf180_realistic_eval_20261028.md`（AFE_RST のパルスは図 39：typical と ss。パルスなしの 300 mV は 11 ms まで回し、2.82 ms で範囲に戻るが入力換算約 −31 µV のずれが時定数約 47 ms で残る） | ▶ | 実機で確かめる |
 
 ## 穴の一覧と次の手（優先の順）
 
